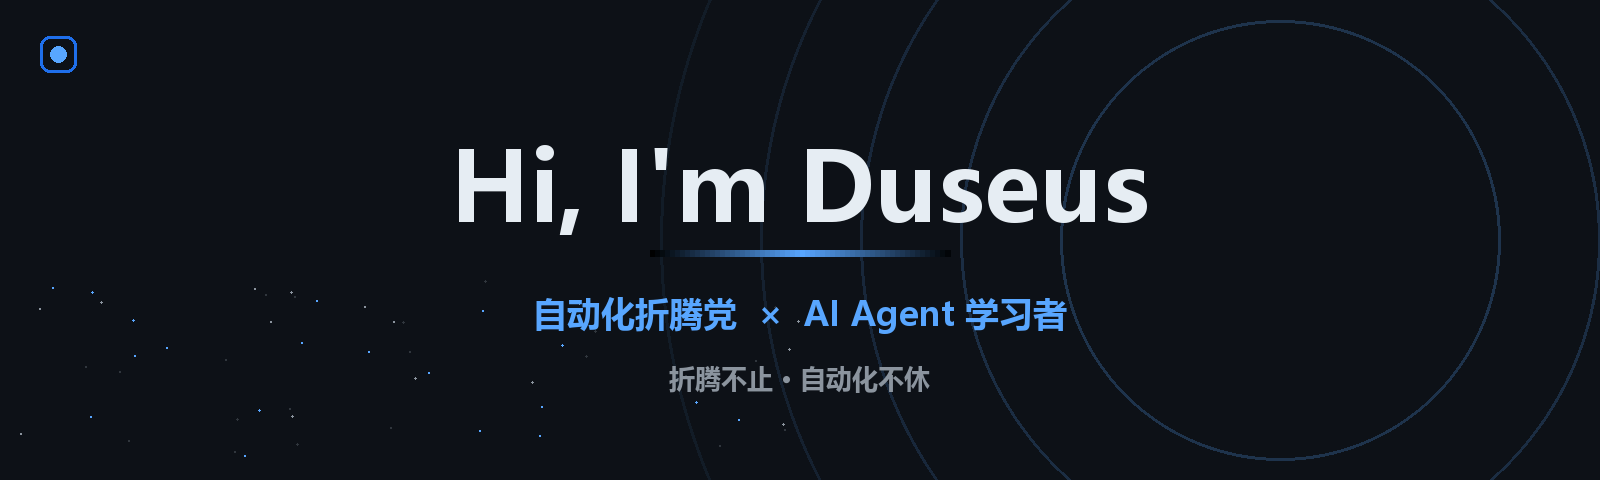
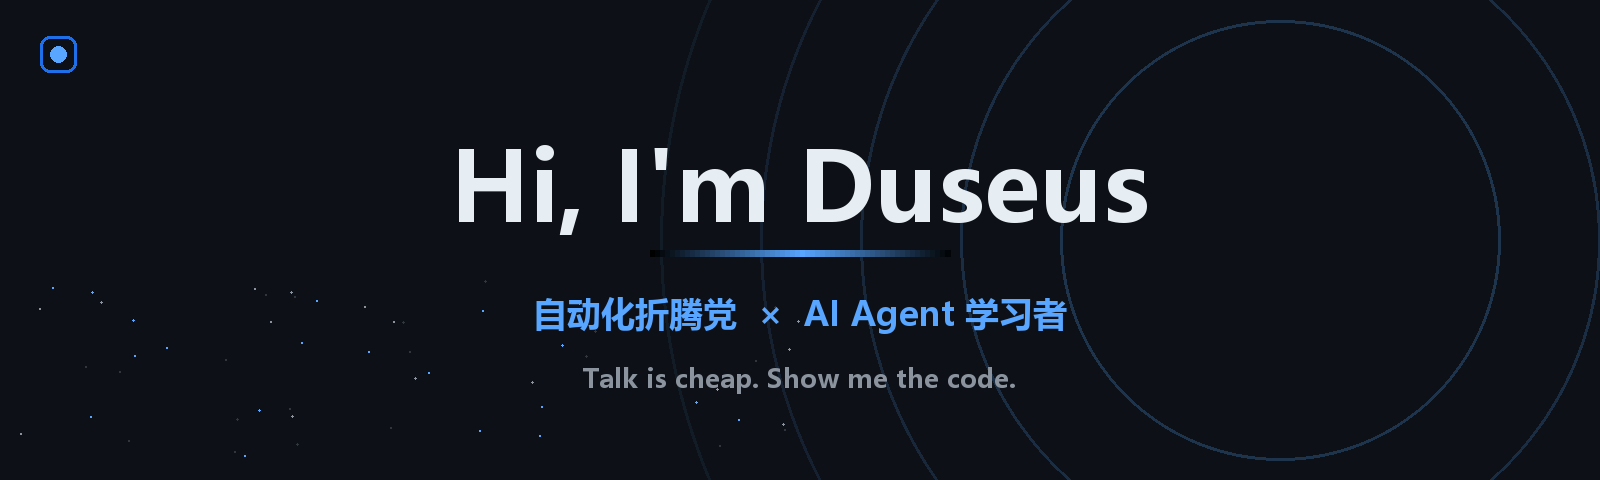
style: replace motto with 'Talk is cheap. Show me the code.'

Changed region(s): [[0.3438, 0.75, 0.6562, 0.8125]]

diff --git a/make_banner.py b/make_banner.py
@@ -76,7 +76,7 @@ sw = bbox[2] - bbox[0]
 draw.text(((W - sw) // 2, bar_y + 40), sub, font=f_sub, fill=BLUE)
 
 # ---- 底部小字 ----
-small = "折腾不止 · 自动化不休"
+small = "Talk is cheap. Show me the code."
 bbox = draw.textbbox((0, 0), small, font=f_small)
 ssw = bbox[2] - bbox[0]
 draw.text(((W - ssw) // 2, bar_y + 110), small, font=f_small, fill=GRAY)

diff --git a/README.md b/README.md
@@ -4,7 +4,7 @@
 
 <div align="center">
 
-<img src="https://readme-typing-svg.demolab.com?font=Fira+Code&weight=600&size=22&pause=1000&color=58A6FF&center=true&vCenter=true&random=false&width=500&lines=AI+Agent+%E5%AD%A6%E4%B9%A0%E8%80%85;%E6%8A%98%E8%85%BE%E4%B8%8D%E6%AD%A2%EF%BC%8C%E8%87%AA%E5%8A%A8%E5%8C%96%E4%B8%8D%E4%BC%91" alt="Typing SVG" />
+<img src="https://readme-typing-svg.demolab.com?font=Fira+Code&weight=600&size=22&pause=1000&color=58A6FF&center=true&vCenter=true&random=false&width=560&lines=Talk+is+cheap.+Show+me+the+code." alt="Typing SVG" />
 
 **📚 永远的学习者 | 🤖 AI Agent 爱好者 | 🔧 自动化折腾党**
 
